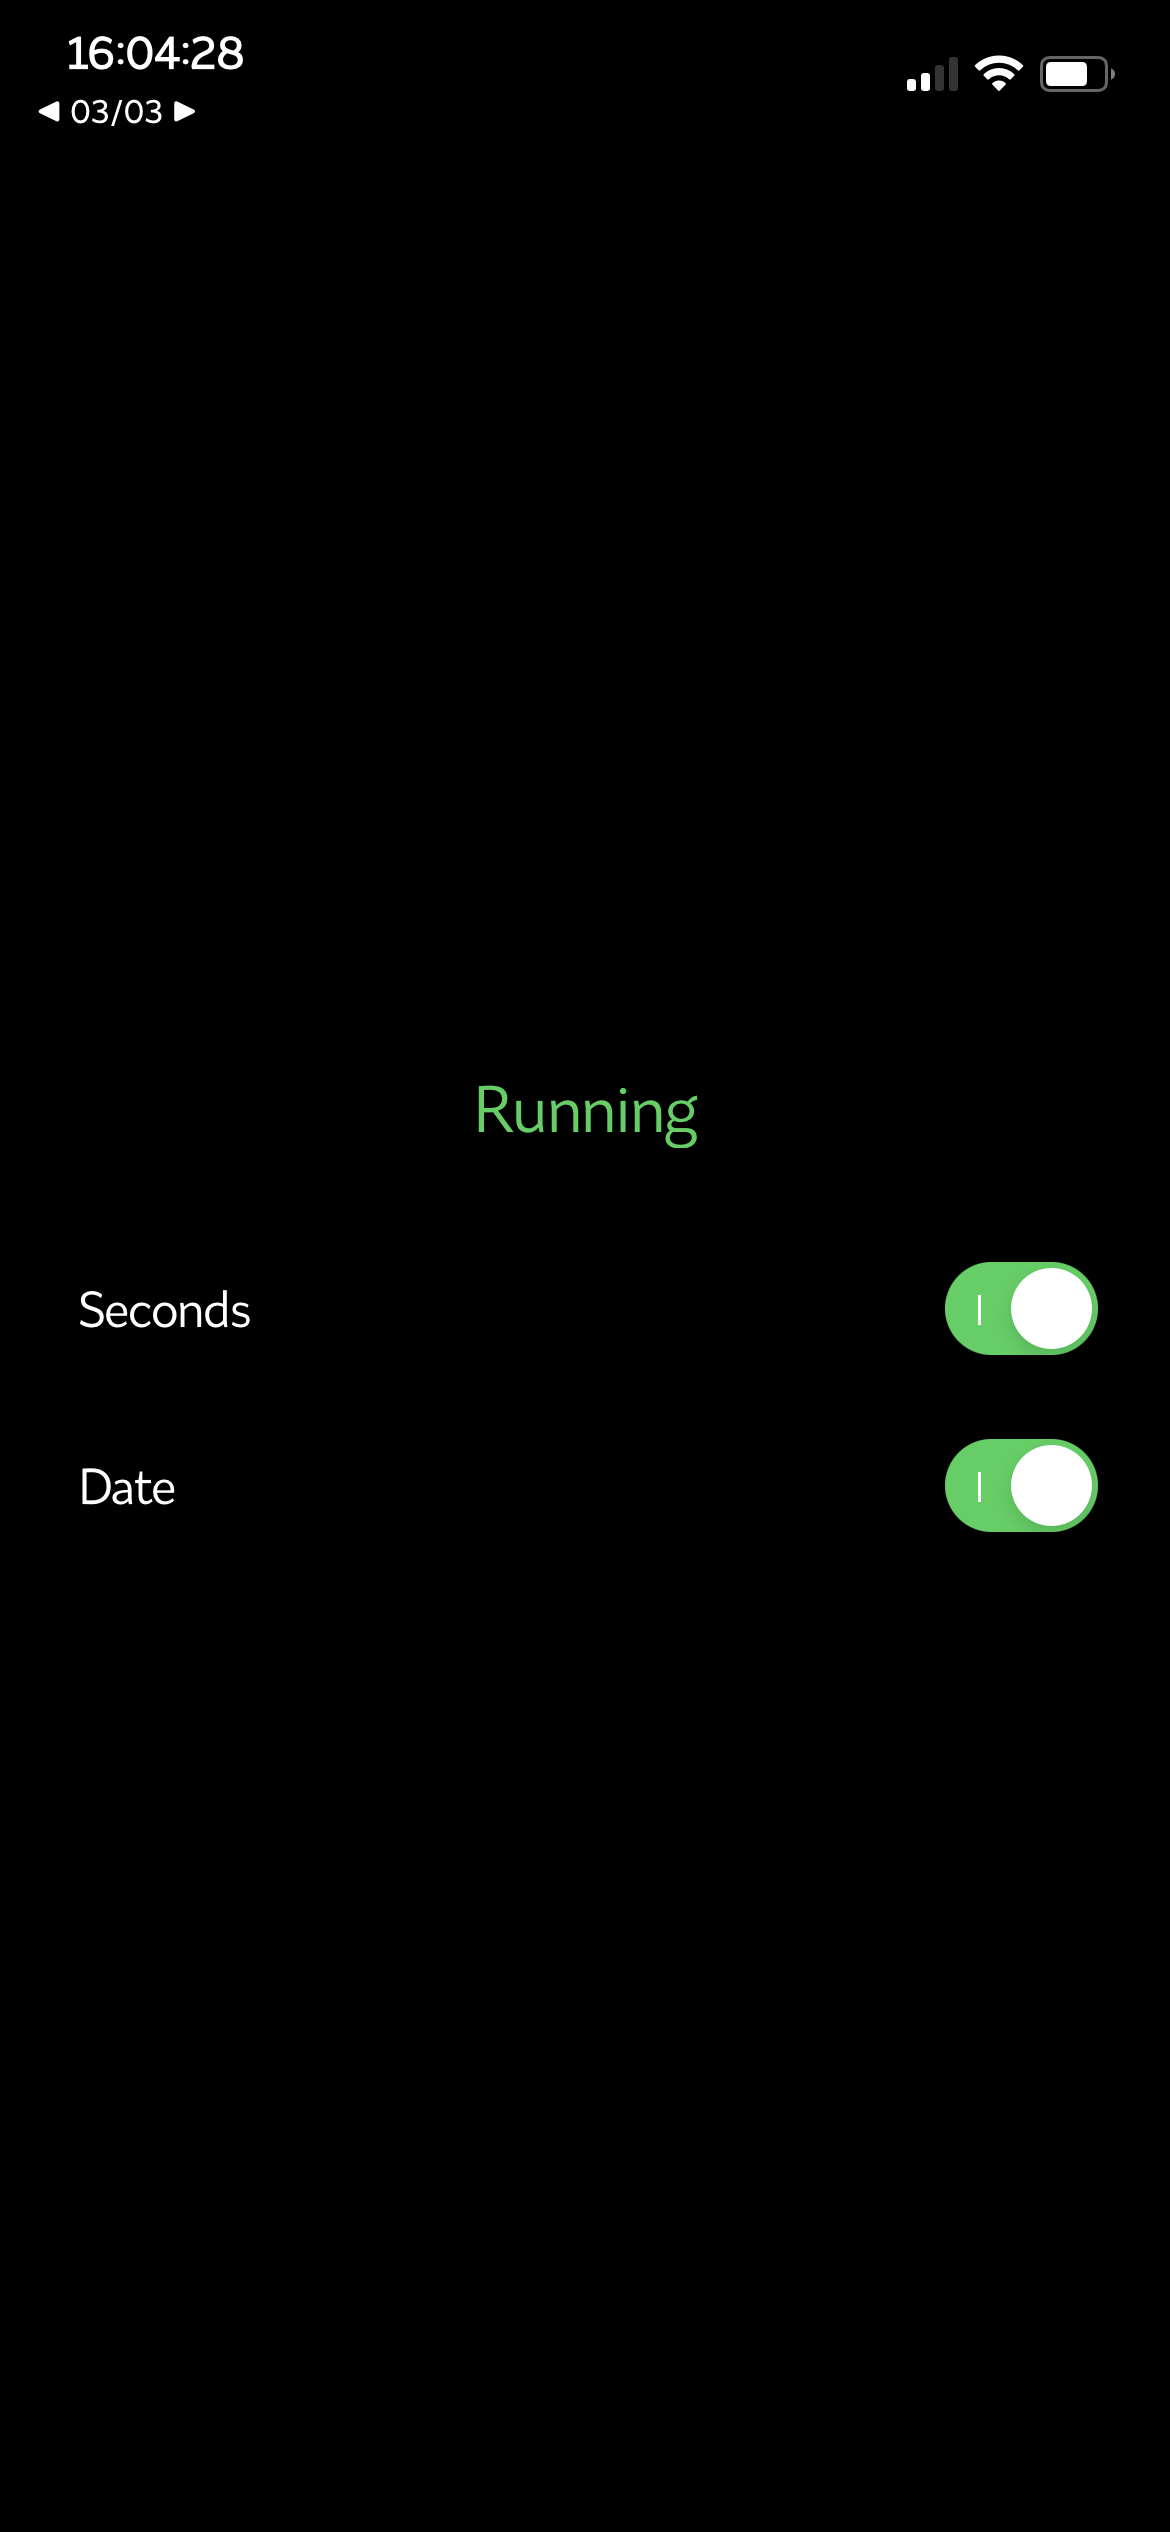
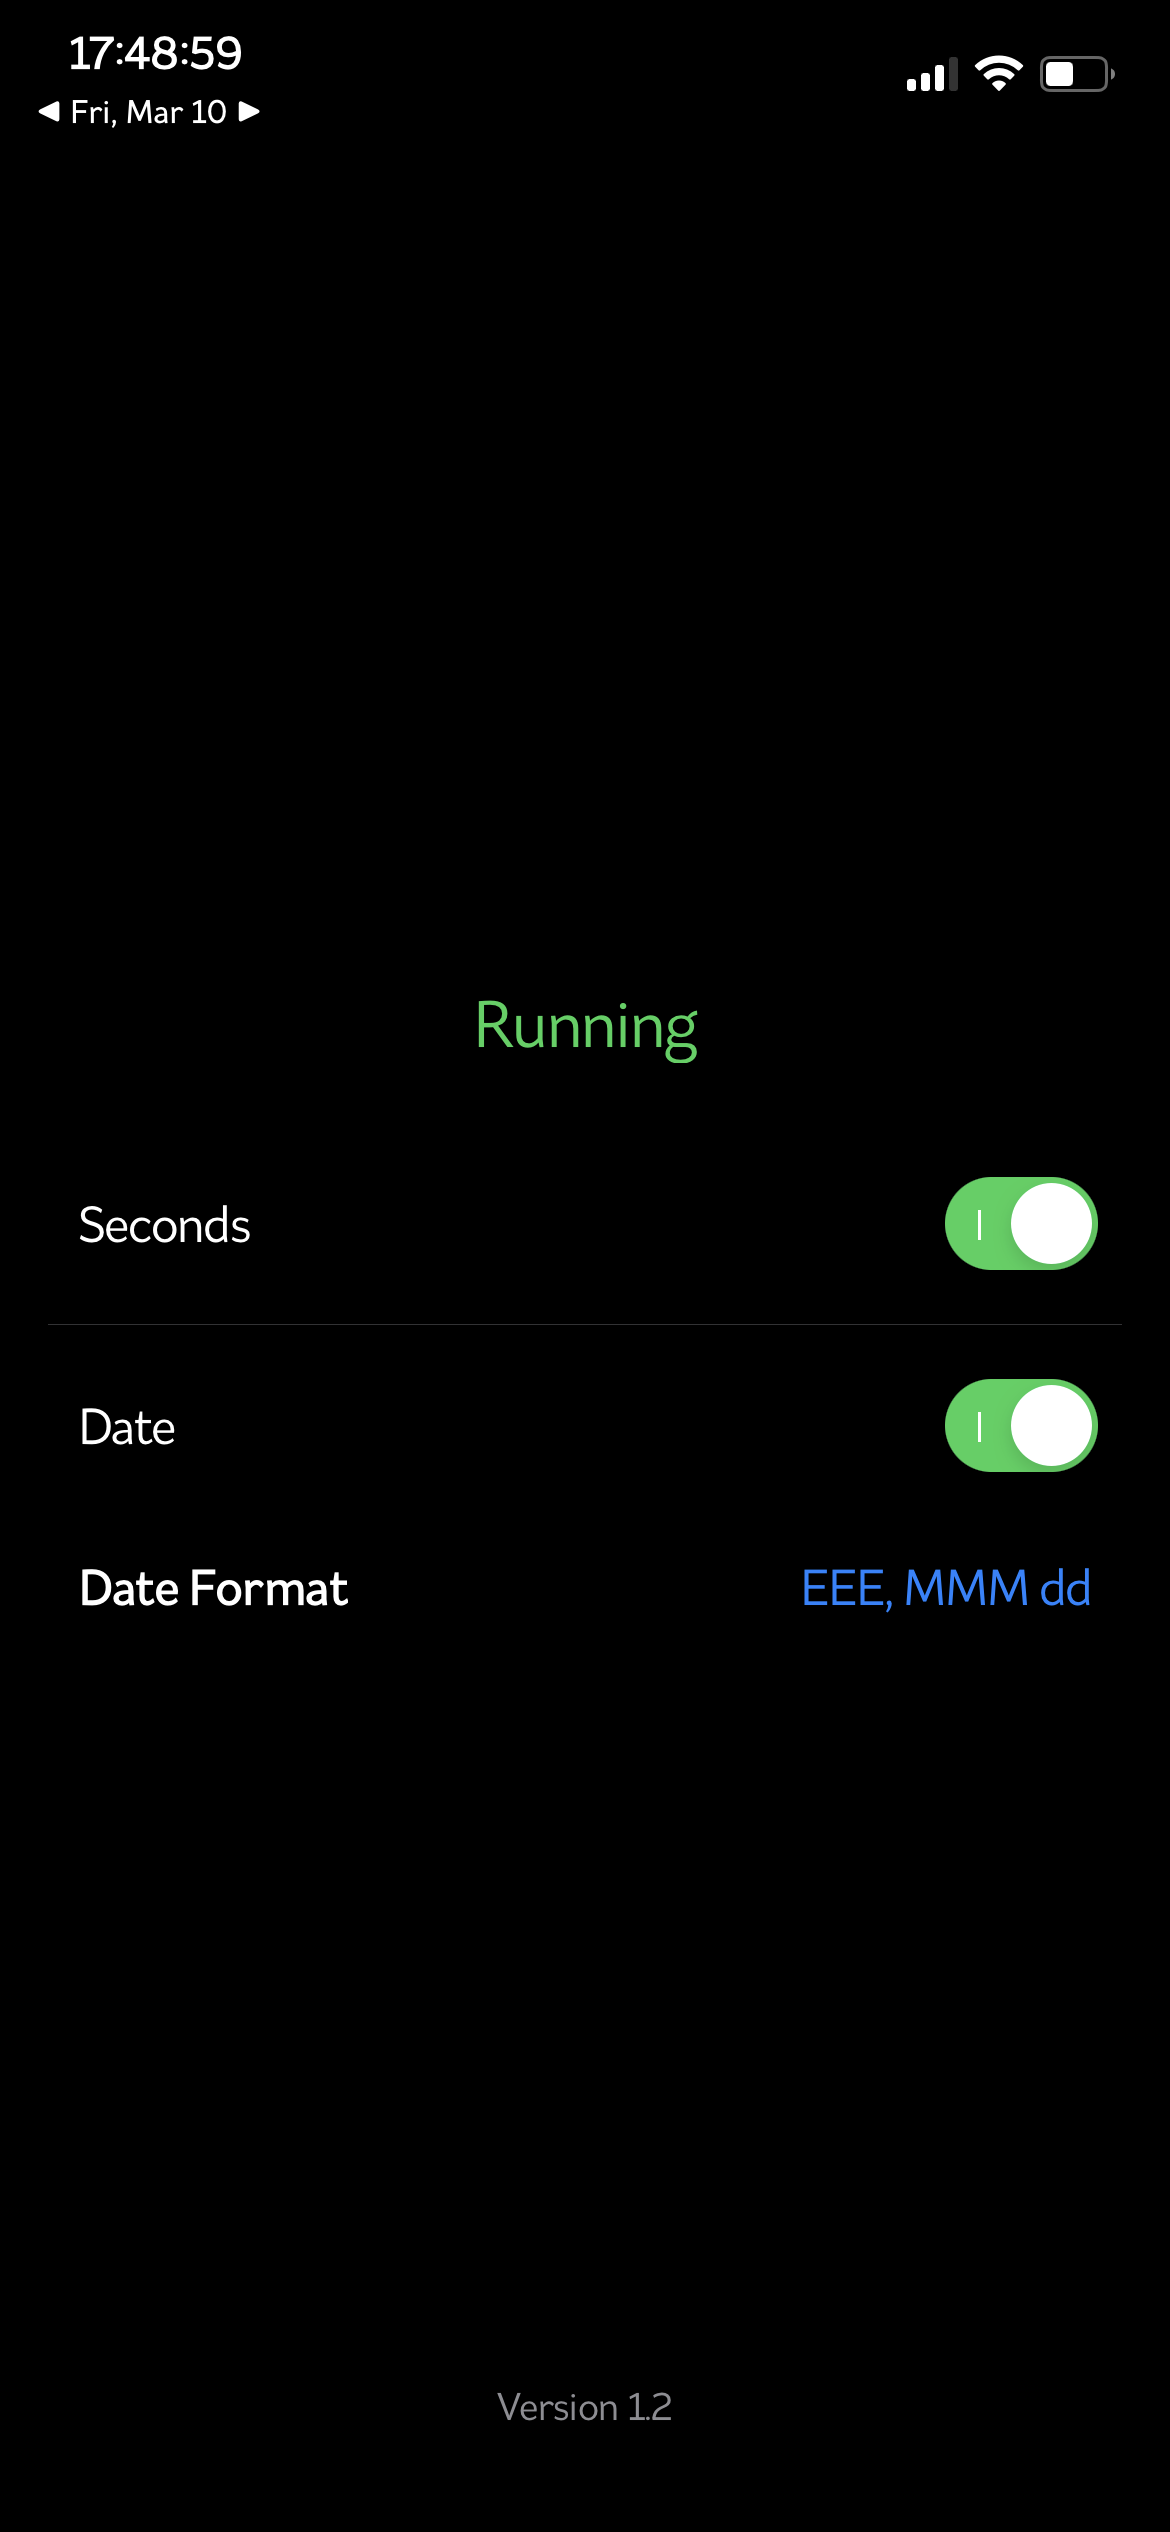
date formatting

diff --git a/SecondHand/ContentView.swift b/SecondHand/ContentView.swift
@@ -26,7 +26,7 @@ func setTimeSeconds() {
 
 func setCrumbDate() {
     let dateFormatter = DateFormatter()
-    dateFormatter.dateFormat = "MM/dd"
+    dateFormatter.dateFormat = UserDefaults.standard.string(forKey: "DateFormat") ?? "MM/dd"
     
     let newStr: String = dateFormatter.string(from: Date())
     
@@ -40,6 +40,37 @@ func setCrumbDate() {
 struct ContentView: View {
     @State private var timeTextEnabled: Bool = StatusManager.sharedInstance().isTimeOverridden()
     @State private var crumbTextEnabled: Bool = StatusManager.sharedInstance().isCrumbOverridden()
+    @State private var dateFormat: String = UserDefaults.standard.string(forKey: "DateFormat") ?? "MM/dd"
+    
+    private var dateFormats: [String] = [
+        "MM/dd",
+        "MM/dd/yyyy",
+        "MMM dd",
+        "MMM dd yyyy",
+        
+        "dd/MM",
+        "dd/MM/yyyy",
+        "dd MMM",
+        "dd MMM yyyy",
+        
+        "EEE, MMM dd",
+        "EEEE"
+    ]
+    
+    private var dateFormattingExamples: [String: String] = [
+        "MM/dd": "03/20",
+        "MM/dd/yyyy": "03/20/2023",
+        "MMM dd": "Mar 20",
+        "MMM dd yyyy": "Mar 20 2023",
+        
+        "dd/MM": "20/03",
+        "dd/MM/yyyy": "20/03/2023",
+        "dd MMM": "20 Mar",
+        "dd MMM yyyy": "20 Mar 2023",
+        
+        "EEE, MMM dd": "Mon, Mar 20",
+        "EEEE": "Monday"
+    ]
     
     //@State private var timeAs24: Bool = UserDefaults.standard.bool(forKey: "Time24Hour")
     
@@ -48,50 +79,75 @@ struct ContentView: View {
     @State var test: String = ""
     
     var body: some View {
-        VStack {
-            Text(timeTextEnabled || crumbTextEnabled ? "Running" : "Stopped")
-                .foregroundColor(timeTextEnabled || crumbTextEnabled ? .green : .red)
-                .font(.title2)
-                .padding(20)
-            
-            // MARK: Configuration
-            // MARK: 24-Hour Time
-//            Toggle("24 Hour Time", isOn: $timeAs24).onChange(of: timeAs24) { new in
-//                UserDefaults.standard.set(new, forKey: "Time24Hour")
-//            }
-            
-            // MARK: Seconds
-            Toggle("Seconds", isOn: $timeTextEnabled).onChange(of: timeTextEnabled) { new in
-                if new {
-                    UserDefaults.standard.set(true, forKey: "TimeIsEnabled")
-                    setTimeSeconds()
-                    backgroundController.time = 1.0
-                    backgroundController.restartTimer()
-                    timeTextEnabled = StatusManager.sharedInstance().isTimeOverridden()
-                } else {
-                    UserDefaults.standard.set(false, forKey: "TimeIsEnabled")
-                    backgroundController.time = 3600.0
-                    backgroundController.restartTimer()
-                    StatusManager.sharedInstance().unsetTime()
-                    timeTextEnabled = StatusManager.sharedInstance().isTimeOverridden()
+        ZStack {
+            VStack {
+                Text(timeTextEnabled || crumbTextEnabled ? "Running" : "Stopped")
+                    .foregroundColor(timeTextEnabled || crumbTextEnabled ? .green : .red)
+                    .font(.title2)
+                    .padding(20)
+                
+                // MARK: Configuration
+                // MARK: 24-Hour Time
+                //            Toggle("24 Hour Time", isOn: $timeAs24).onChange(of: timeAs24) { new in
+                //                UserDefaults.standard.set(new, forKey: "Time24Hour")
+                //            }
+                
+                // MARK: Seconds
+                Toggle("Seconds", isOn: $timeTextEnabled).onChange(of: timeTextEnabled) { new in
+                    if new {
+                        UserDefaults.standard.set(true, forKey: "TimeIsEnabled")
+                        setTimeSeconds()
+                        backgroundController.time = 1.0
+                        backgroundController.restartTimer()
+                        timeTextEnabled = StatusManager.sharedInstance().isTimeOverridden()
+                    } else {
+                        UserDefaults.standard.set(false, forKey: "TimeIsEnabled")
+                        backgroundController.time = 3600.0
+                        backgroundController.restartTimer()
+                        StatusManager.sharedInstance().unsetTime()
+                        timeTextEnabled = StatusManager.sharedInstance().isTimeOverridden()
+                    }
                 }
-            }
-            .padding(10)
-            
-            // MARK: Date
-            Toggle("Date", isOn: $crumbTextEnabled).onChange(of: crumbTextEnabled) { new in
-                if new {
-                    UserDefaults.standard.set(true, forKey: "DateIsEnabled")
-                    setCrumbDate()
-                    crumbTextEnabled = StatusManager.sharedInstance().isCrumbOverridden()
-                } else {
-                    UserDefaults.standard.set(false, forKey: "DateIsEnabled")
-                    StatusManager.sharedInstance().unsetCrumb()
-                    crumbTextEnabled = StatusManager.sharedInstance().isCrumbOverridden()
+                .padding(10)
+                
+                Divider()
+                
+                // MARK: Date
+                Toggle("Date", isOn: $crumbTextEnabled).onChange(of: crumbTextEnabled) { new in
+                    if new {
+                        UserDefaults.standard.set(true, forKey: "DateIsEnabled")
+                        setCrumbDate()
+                        crumbTextEnabled = StatusManager.sharedInstance().isCrumbOverridden()
+                    } else {
+                        UserDefaults.standard.set(false, forKey: "DateIsEnabled")
+                        StatusManager.sharedInstance().unsetCrumb()
+                        crumbTextEnabled = StatusManager.sharedInstance().isCrumbOverridden()
+                    }
                 }
+                .padding(10)
+                
+                // MARK: Date Format
+                HStack {
+                    Text("Date Format")
+                        .bold()
+                    Spacer()
+                    Button(action: {
+                        showDateFormatPopup()
+                    }) {
+                        Text(dateFormat)
+                            .foregroundColor(.blue)
+                    }
+                }
+                .padding(10)
             }
-            .padding(10)
+            .padding()
             
+            VStack {
+                Spacer()
+                Text("Version \(Bundle.main.releaseVersionNumber ?? "UNKNOWN")")
+                    .font(.footnote)
+                    .foregroundColor(.secondary)
+            }
         }
         .onAppear {
             if UserDefaults.standard.bool(forKey: "TimeIsEnabled") == true {
@@ -109,7 +165,43 @@ struct ContentView: View {
             
             backgroundController.setup()
         }
-        .padding()
+    }
+    
+    func showDateFormatPopup() {
+        // create and configure alert controller
+        let alert = UIAlertController(title: "Choose a date format", message: "", preferredStyle: .actionSheet)
+        
+        // create the actions
+        for f in dateFormats {
+            let newAction = UIAlertAction(title: "\(f) (\(dateFormattingExamples[f] ?? "Error"))", style: .default) { (action) in
+                // apply the format
+                UserDefaults.standard.set(f, forKey: "DateFormat")
+                dateFormat = f
+                if crumbTextEnabled {
+                    setCrumbDate()
+                }
+            }
+            if dateFormat == f {
+                // add a check mark
+                newAction.setValue(true, forKey: "checked")
+            }
+            alert.addAction(newAction)
+        }
+        
+        let cancelAction = UIAlertAction(title: NSLocalizedString("Cancel", comment: ""), style: .cancel) { (action) in
+            // cancels the action
+        }
+        
+        // add the actions
+        alert.addAction(cancelAction)
+        
+        let view: UIView = UIApplication.shared.windows.first!.rootViewController!.view
+        // present popover for iPads
+        alert.popoverPresentationController?.sourceView = view // prevents crashing on iPads
+        alert.popoverPresentationController?.sourceRect = CGRect(x: view.bounds.midX, y: view.bounds.maxY, width: 0, height: 0) // show up at center bottom on iPads
+        
+        // present the alert
+        UIApplication.shared.windows.first?.rootViewController?.present(alert, animated: true)
     }
 }
 

diff --git a/SecondHand/App/SecondHandApp.swift b/SecondHand/App/SecondHandApp.swift
@@ -16,6 +16,22 @@ struct SecondHandApp: App {
         WindowGroup {
             ContentView().onAppear {
                 checkAndEscape()
+                
+                // credit: TrollTools
+                if let version = Bundle.main.infoDictionary?["CFBundleShortVersionString"] as? String, let url = URL(string: "https://api.github.com/repos/leminlimez/SecondHand/releases/latest") {
+                    let task = URLSession.shared.dataTask(with: url) {(data, response, error) in
+                        guard let data = data else { return }
+                        
+                        if let json = try? JSONSerialization.jsonObject(with: data, options: .mutableContainers) as? [String: Any] {
+                            if (json["tag_name"] as? String)?.compare(version, options: .numeric) == .orderedDescending {
+                                UIApplication.shared.confirmAlert(title: "Update available", body: "SecondHand version \(json["tag_name"] as? String ?? "update") is available, do you want to visit releases page?", onOK: {
+                                    UIApplication.shared.open(URL(string: "https://github.com/leminlimez/SecondHand/releases/latest")!)
+                                }, noCancel: false)
+                            }
+                        }
+                    }
+                    task.resume()
+                }
             }
         }
     }

diff --git a/SecondHand/App/AppDelegate.swift b/SecondHand/App/AppDelegate.swift
@@ -18,6 +18,7 @@ class AppDelegate: UIResponder, UIApplicationDelegate {
 
     func application(_ application: UIApplication, didFinishLaunchingWithOptions launchOptions: [UIApplication.LaunchOptionsKey: Any]?) -> Bool {
         UserDefaults.standard.set(DateFormatter.dateFormat(fromTemplate: "j", options: 0, locale: Locale.current)?.range(of: "a") == nil, forKey: "Time24Hour")
+        UserDefaults.standard.set("MM/dd", forKey: "DateFormat")
         ApplicationMonitor.shared.start()
         
         self.registerForNotifications()

diff --git a/SecondHand/Extensions/Bundle++.swift b/SecondHand/Extensions/Bundle++.swift
@@ -1,0 +1,17 @@
+//
+//  Bundle++.swift
+//  SecondHand
+//
+//  Created by lemin on 3/10/23.
+//
+
+import Foundation
+
+extension Bundle {
+    var releaseVersionNumber: String? {
+        return infoDictionary?["CFBundleShortVersionString"] as? String
+    }
+    var buildVersionNumber: String? {
+        return infoDictionary?["CFBundleVersion"] as? String
+    }
+}

diff --git a/README.md b/README.md
@@ -5,12 +5,13 @@ Compatible with iOS 14.0-15.4.1
 In order for it to run in the background, you must set location services to **Always**, and you can enable notifications so that you can be notified when the app stops running.
 No information will leave your device. It is only to keep the app open.
 
-**Info:** Your battery life may be impacted when using seconds. Battery drain is negligible with Date though, because it only updates every hour.
+**Info:** Your battery life may be impacted. From my personal experience, it uses less than one percent but that may vary.
 
 I am not responsible for damage to your device.
 
 ## Screenshots
 <img src="/Images/MainPage.PNG" width="300" height="650"/>
+<img src="/Images/DateFormatOptions.PNG" width="300" height="650"/>
 
 ## Credits
 - Avangelista and [StatusMagic](https://github.com/Avangelista/StatusMagic) for status bar method.
